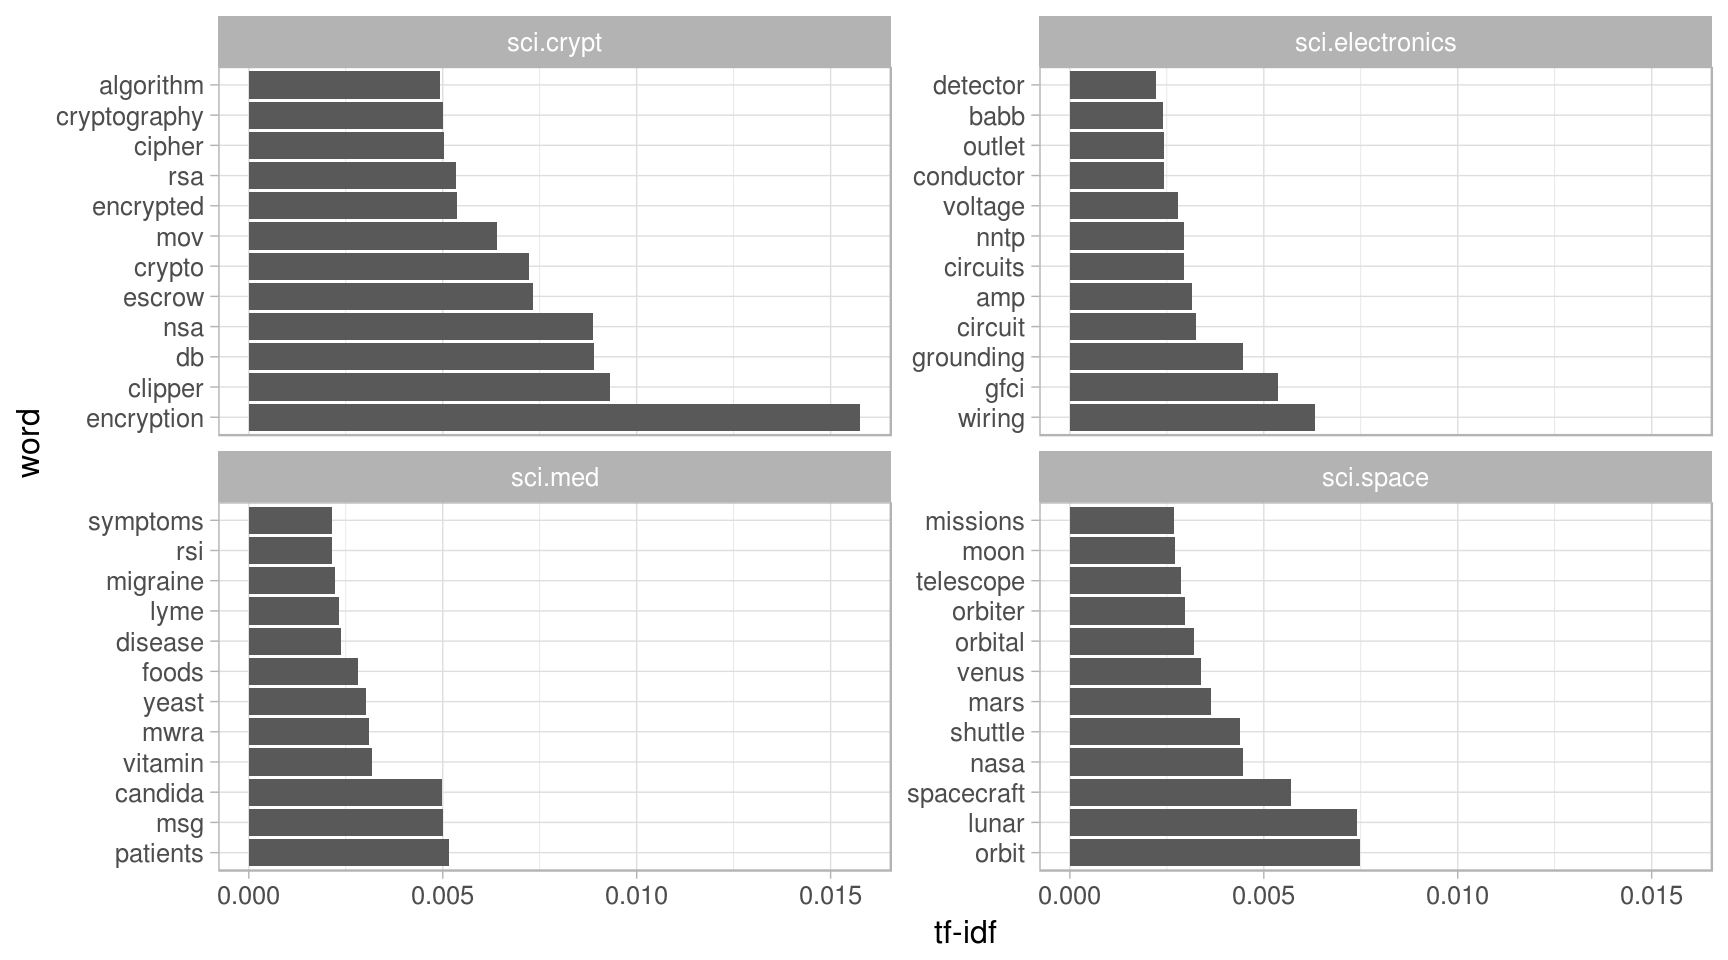
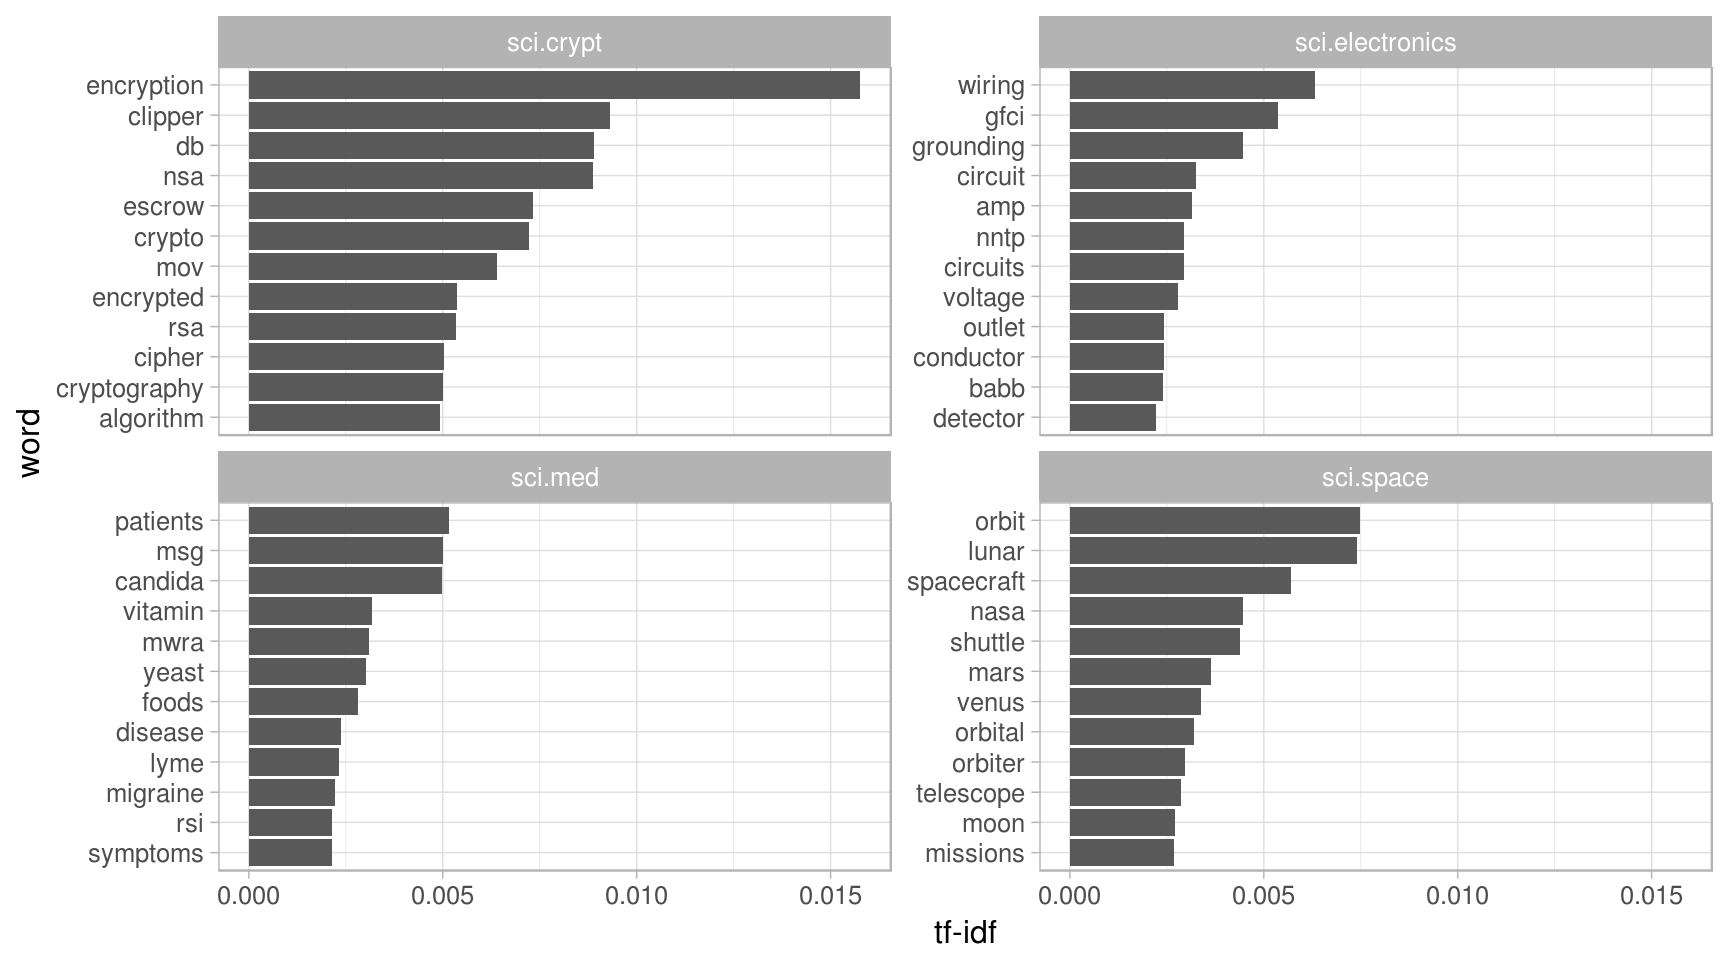
Updating book (63)

diff --git a/usenet.html b/usenet.html
@@ -25,7 +25,7 @@
 
 <meta name="author" content="Julia Silge and David Robinson">
 
-<meta name="date" content="2016-09-16">
+<meta name="date" content="2016-09-17">
 
 <script type="text/x-mathjax-config">
 MathJax.Hub.Config({
@@ -323,14 +323,14 @@ tf_idf %&gt;%
 <span class="st">  </span><span class="kw">filter</span>(<span class="kw">str_detect</span>(board, <span class="st">&quot;^sci</span><span class="ch">\\</span><span class="st">.&quot;</span>)) %&gt;%
 <span class="st">  </span><span class="kw">group_by</span>(board) %&gt;%
 <span class="st">  </span><span class="kw">top_n</span>(<span class="dv">12</span>, tf_idf) %&gt;%
-<span class="st">  </span><span class="kw">mutate</span>(<span class="dt">word =</span> <span class="kw">reorder</span>(word, -tf_idf)) %&gt;%
+<span class="st">  </span><span class="kw">mutate</span>(<span class="dt">word =</span> <span class="kw">reorder</span>(word, tf_idf)) %&gt;%
 <span class="st">  </span><span class="kw">ggplot</span>(<span class="kw">aes</span>(tf_idf, word)) +
 <span class="st">  </span><span class="kw">geom_barh</span>(<span class="dt">stat =</span> <span class="st">&quot;identity&quot;</span>) +
 <span class="st">  </span><span class="kw">facet_wrap</span>(~<span class="st"> </span>board, <span class="dt">scales =</span> <span class="st">&quot;free_y&quot;</span>) +
 <span class="st">  </span><span class="kw">xlab</span>(<span class="st">&quot;tf-idf&quot;</span>)</code></pre></div>
 <p><img src="10-usenet_files/figure-html/unnamed-chunk-8-1.png" width="864" /></p>
 <p>We could use almost the same code (not shown) to compare the “rec.” (recreation) or “talk.” boards:</p>
-<p><img src="10-usenet_files/figure-html/unnamed-chunk-9-1.png" width="672" /><img src="10-usenet_files/figure-html/unnamed-chunk-9-2.png" width="672" /></p>
+<p><img src="10-usenet_files/figure-html/unnamed-chunk-9-1.png" width="864" /><img src="10-usenet_files/figure-html/unnamed-chunk-9-2.png" width="864" /></p>
 </div>
 <div id="sentiment-analysis" class="section level2">
 <h2><span class="header-section-number">10.3</span> Sentiment Analysis</h2>

diff --git a/index.html b/index.html
@@ -25,7 +25,7 @@
 
 <meta name="author" content="Julia Silge and David Robinson">
 
-<meta name="date" content="2016-09-16">
+<meta name="date" content="2016-09-17">
 
 <script type="text/x-mathjax-config">
 MathJax.Hub.Config({
@@ -204,7 +204,7 @@ code > span.in { color: #60a0b0; font-weight: bold; font-style: italic; } /* Inf
 <div id="header">
 <h1 class="title">Tidy Text Mining with R</h1>
 <h4 class="author"><em>Julia Silge and David Robinson</em></h4>
-<h4 class="date"><em>2016-09-16</em></h4>
+<h4 class="date"><em>2016-09-17</em></h4>
 </div>
 <div id="welcome-to-tidy-text-mining-with-r" class="section level1 unnumbered">
 <h1>Welcome to Tidy Text Mining with R</h1>

diff --git a/dtm.html b/dtm.html
@@ -25,7 +25,7 @@
 
 <meta name="author" content="Julia Silge and David Robinson">
 
-<meta name="date" content="2016-09-16">
+<meta name="date" content="2016-09-17">
 
 <script type="text/x-mathjax-config">
 MathJax.Hub.Config({

diff --git a/intro.html b/intro.html
@@ -25,7 +25,7 @@
 
 <meta name="author" content="Julia Silge and David Robinson">
 
-<meta name="date" content="2016-09-16">
+<meta name="date" content="2016-09-17">
 
 <script type="text/x-mathjax-config">
 MathJax.Hub.Config({

diff --git a/nasa.html b/nasa.html
@@ -25,7 +25,7 @@
 
 <meta name="author" content="Julia Silge and David Robinson">
 
-<meta name="date" content="2016-09-16">
+<meta name="date" content="2016-09-17">
 
 <script type="text/x-mathjax-config">
 MathJax.Hub.Config({

diff --git a/ngrams.html b/ngrams.html
@@ -25,7 +25,7 @@
 
 <meta name="author" content="Julia Silge and David Robinson">
 
-<meta name="date" content="2016-09-16">
+<meta name="date" content="2016-09-17">
 
 <script type="text/x-mathjax-config">
 MathJax.Hub.Config({

diff --git a/references.html b/references.html
@@ -25,7 +25,7 @@
 
 <meta name="author" content="Julia Silge and David Robinson">
 
-<meta name="date" content="2016-09-16">
+<meta name="date" content="2016-09-17">
 
 <script type="text/x-mathjax-config">
 MathJax.Hub.Config({

diff --git a/sentiment.html b/sentiment.html
@@ -25,7 +25,7 @@
 
 <meta name="author" content="Julia Silge and David Robinson">
 
-<meta name="date" content="2016-09-16">
+<meta name="date" content="2016-09-17">
 
 <script type="text/x-mathjax-config">
 MathJax.Hub.Config({

diff --git a/tfidf.html b/tfidf.html
@@ -25,7 +25,7 @@
 
 <meta name="author" content="Julia Silge and David Robinson">
 
-<meta name="date" content="2016-09-16">
+<meta name="date" content="2016-09-17">
 
 <script type="text/x-mathjax-config">
 MathJax.Hub.Config({

diff --git a/tidytext.html b/tidytext.html
@@ -25,7 +25,7 @@
 
 <meta name="author" content="Julia Silge and David Robinson">
 
-<meta name="date" content="2016-09-16">
+<meta name="date" content="2016-09-17">
 
 <script type="text/x-mathjax-config">
 MathJax.Hub.Config({

diff --git a/topicmodeling.html b/topicmodeling.html
@@ -25,7 +25,7 @@
 
 <meta name="author" content="Julia Silge and David Robinson">
 
-<meta name="date" content="2016-09-16">
+<meta name="date" content="2016-09-17">
 
 <script type="text/x-mathjax-config">
 MathJax.Hub.Config({

diff --git a/twitter.html b/twitter.html
@@ -25,7 +25,7 @@
 
 <meta name="author" content="Julia Silge and David Robinson">
 
-<meta name="date" content="2016-09-16">
+<meta name="date" content="2016-09-17">
 
 <script type="text/x-mathjax-config">
 MathJax.Hub.Config({
